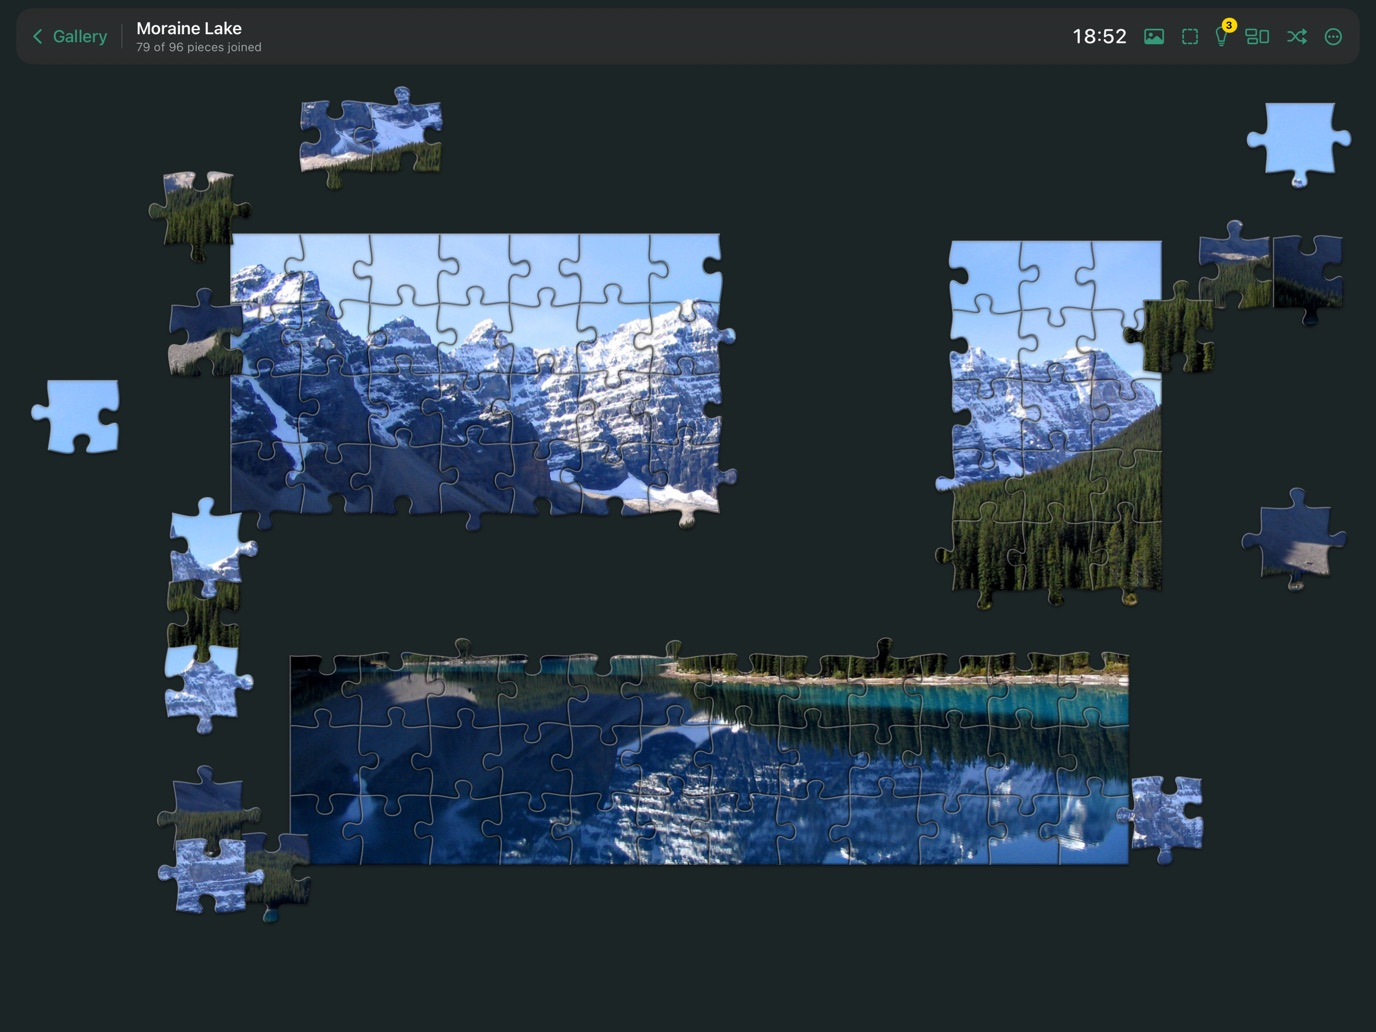
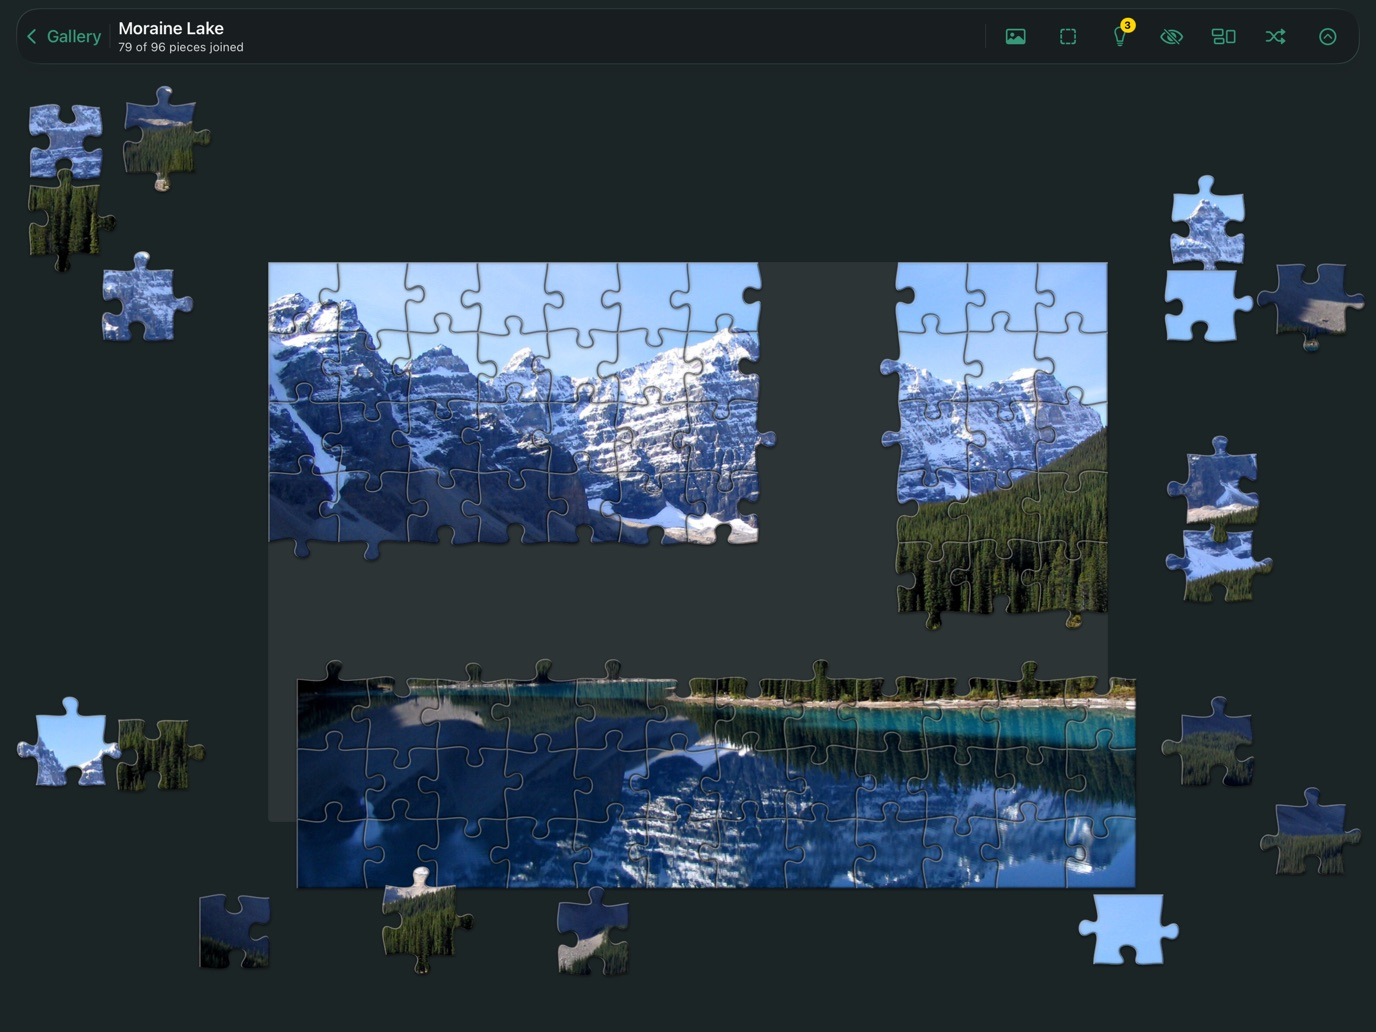
Link to the App Store and update the site for 1.1
Free on the App Store badge, 600 pieces on iPad, new screenshots, and the
support answers for the new toolbar, start sheet, timer and board outline.

diff --git a/support/index.html b/support/index.html
@@ -38,22 +38,40 @@
   <dd>Puzzles save automatically, every move. Unfinished puzzles appear on the Continue shelf at the top of the gallery. Tap one to carry on, or touch and hold it and choose Remove from Continue.</dd>
 
   <dt>Can I have more than one puzzle going?</dt>
-  <dd>Yes, one per photo. If you tap a photo that already has a puzzle in progress, the app asks whether to continue it or start a new one.</dd>
+  <dd>Yes, one per photo. If you tap a photo that already has a puzzle in progress, its start sheet offers to continue it or start a new one.</dd>
+
+  <dt>What is the daily puzzle?</dt>
+  <dd>Every day there is a new puzzle at the top of the gallery, with the same photo and the same cut for everyone. Finish it on consecutive days to build a streak. Tap the calendar to play days you missed.</dd>
+
+  <dt>How do hints work?</dt>
+  <dd>Tap the lightbulb and a piece glides to where it belongs, joining its neighbour. Each puzzle has three hints (two on 6-piece puzzles); the badge shows how many are left.</dd>
+
+  <dt>How do I play without a connection?</dt>
+  <dd>Touch and hold a scene in the gallery (such as Waterfalls) and choose Keep offline; collections can be kept offline too. Its photos download in the background and stay on the device. See and remove downloads in Settings, from the gear button in the gallery.</dd>
+
+  <dt>What are collections?</dt>
+  <dd>Hand-picked sets of photos, such as Golden hour or Iceland, each with a short introduction. They appear on a shelf in the gallery.</dd>
 
   <dt>How do I change the number of pieces?</dt>
-  <dd>Choose 6, 24, 54, 96 or 150 under Pieces in the gallery before tapping a photo. A puzzle keeps the piece count it was started with.</dd>
+  <dd>Tapping a photo opens its start sheet, where you pick the piece count: 6 to 150 on iPhone, and up to 600 on iPad. Your best time for each count is shown beside it. A puzzle keeps the piece count it was started with.</dd>
 
   <dt>What do the toolbar buttons do?</dt>
-  <dd>Preview shows the whole photo. Edges only dims the middle pieces. Tidy up moves loose pieces to the sides of the table. Shuffle scatters the puzzle and starts it over. The … menu has the ghost guide (a faint image of the finished picture on the table) and switches for sounds and, on iPhone, haptics.</dd>
+  <dd>Preview shows the whole photo. Edges only dims the middle pieces. The lightbulb is a hint. The eye cycles the ghost guide (a faint image of the finished picture on the table) between off, faint and strong. Tidy up moves loose pieces to the sides of the table. Shuffle scatters the puzzle and starts it over. After a few seconds the bar folds into a small pill at the top; tap it to bring the bar back, or turn on Keep puzzle controls open in Settings.</dd>
+
+  <dt>Where is the timer?</dt>
+  <dd>Your time is always kept and shown when you finish. To see it while you play, turn on Show timer while playing in Settings.</dd>
+
+  <dt>What is the gray shape on the table?</dt>
+  <dd>It shows the size and place of the finished puzzle. A piece or cluster dropped close to its right place inside it locks there.</dd>
 
   <dt>On iPhone the pieces are small.</dt>
   <dd>Pinch to zoom the table. One finger on empty table pans, and one finger on a piece drags it.</dd>
 
   <dt>A photo will not open.</dt>
-  <dd>The first time you open a photo it is downloaded, so you need a connection. Four photos are built into the app and always work offline. Pull down on the gallery to refresh the library.</dd>
+  <dd>The first time you open a photo it is downloaded, so you need a connection. Four photos are built into the app and always work offline, as do scenes you have chosen to keep offline. Pull down on the gallery to refresh the library.</dd>
 
-  <dt>Who took these photos?</dt>
-  <dd>Tap the info button in the gallery for the photographer, licence and a link to the original on Wikimedia Commons for every photo.</dd>
+  <dt>Who took these photos, and where?</dt>
+  <dd>When you finish a puzzle, the photo's story shows a few lines about the place, the photographer and, where known, a map pin. Tap the info button in the gallery for the photographer, licence and a link to the original on Wikimedia Commons for every photo.</dd>
 
   <dt>Does the app collect my data?</dt>
   <dd>No. See the <a href="/privacy/">privacy policy</a>.</dd>

diff --git a/index.html b/index.html
@@ -30,14 +30,15 @@
   <img src="/assets/icon.png" alt="Pieces of Nature app icon" width="160" height="160">
   <h1>Pieces of Nature</h1>
   <p class="lead">Jigsaw puzzles of wild places</p>
-  <span class="badge">Coming soon to the App Store</span>
+  <a class="badge store" href="https://apps.apple.com/app/pieces-of-nature/id6831877774">Free on the App Store</a>
 </section>
 <div class="card">
   <p>Pieces of Nature is a calm jigsaw puzzle app for iPad and iPhone. Every puzzle is an openly licensed nature photograph from Wikimedia Commons, credited to its photographer.</p>
   <ul>
-    <li>Choose 6, 24, 54, 96 or 150 pieces</li>
+    <li>A new puzzle every day, and about 350 photos to choose from</li>
+    <li>6 to 150 pieces on iPhone, up to 600 on iPad</li>
     <li>Puzzles save automatically, every move</li>
-    <li>Preview, edges only, tidy up and a ghost guide when you want a hint</li>
+    <li>Preview, edges only, hints, tidy up and a ghost guide when you want help</li>
     <li>No accounts, no ads and no tracking</li>
   </ul>
 </div>
@@ -47,11 +48,11 @@
     <figcaption>Nature's best views, in pieces</figcaption>
   </figure>
   <figure class="phone">
-    <img src="/assets/screenshots/iphone-daily.jpg" width="660" height="1434" loading="lazy" alt="The gallery on iPhone with today's puzzle, a 7-day streak and two puzzles in progress">
+    <img src="/assets/screenshots/iphone-daily.jpg" width="660" height="1434" loading="lazy" alt="The gallery on iPhone with today's puzzle, a 7-day streak and four puzzles in progress">
     <figcaption>A new puzzle every day</figcaption>
   </figure>
   <figure class="wide">
-    <img src="/assets/screenshots/ipad-photo-story.jpg" width="1376" height="1032" loading="lazy" alt="A finished puzzle of Tennfjorden in Norway with the photo's story, credit and map">
+    <img src="/assets/screenshots/ipad-photo-story.jpg" width="1376" height="1032" loading="lazy" alt="A finished puzzle of Tennfjorden in Norway with the photo's story, credit, map and Wikipedia link">
     <figcaption>Learn where each photo was taken</figcaption>
   </figure>
 </section>

diff --git a/assets/site.css b/assets/site.css
@@ -75,6 +75,13 @@ p, ul { margin: 0 0 1rem; }
   color: var(--muted);
   font-weight: 600;
 }
+a.badge.store {
+  background: var(--accent);
+  border-color: transparent;
+  color: var(--bg);
+  text-decoration: none;
+}
+a.badge.store:hover { filter: brightness(1.08); }
 .card {
   background: var(--surface);
   border: 1px solid var(--border);
